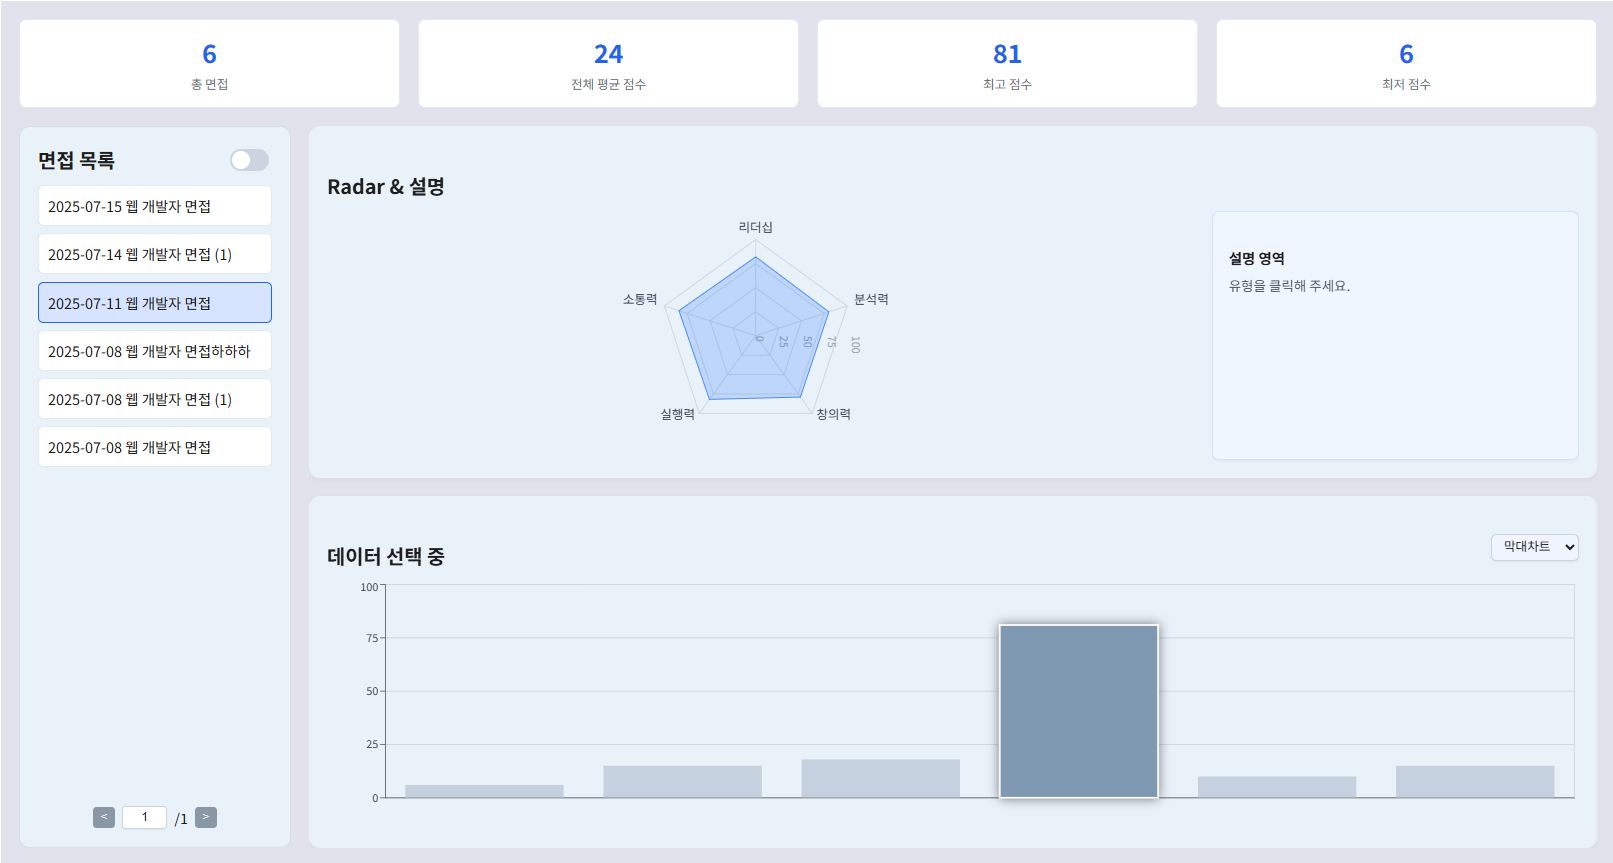
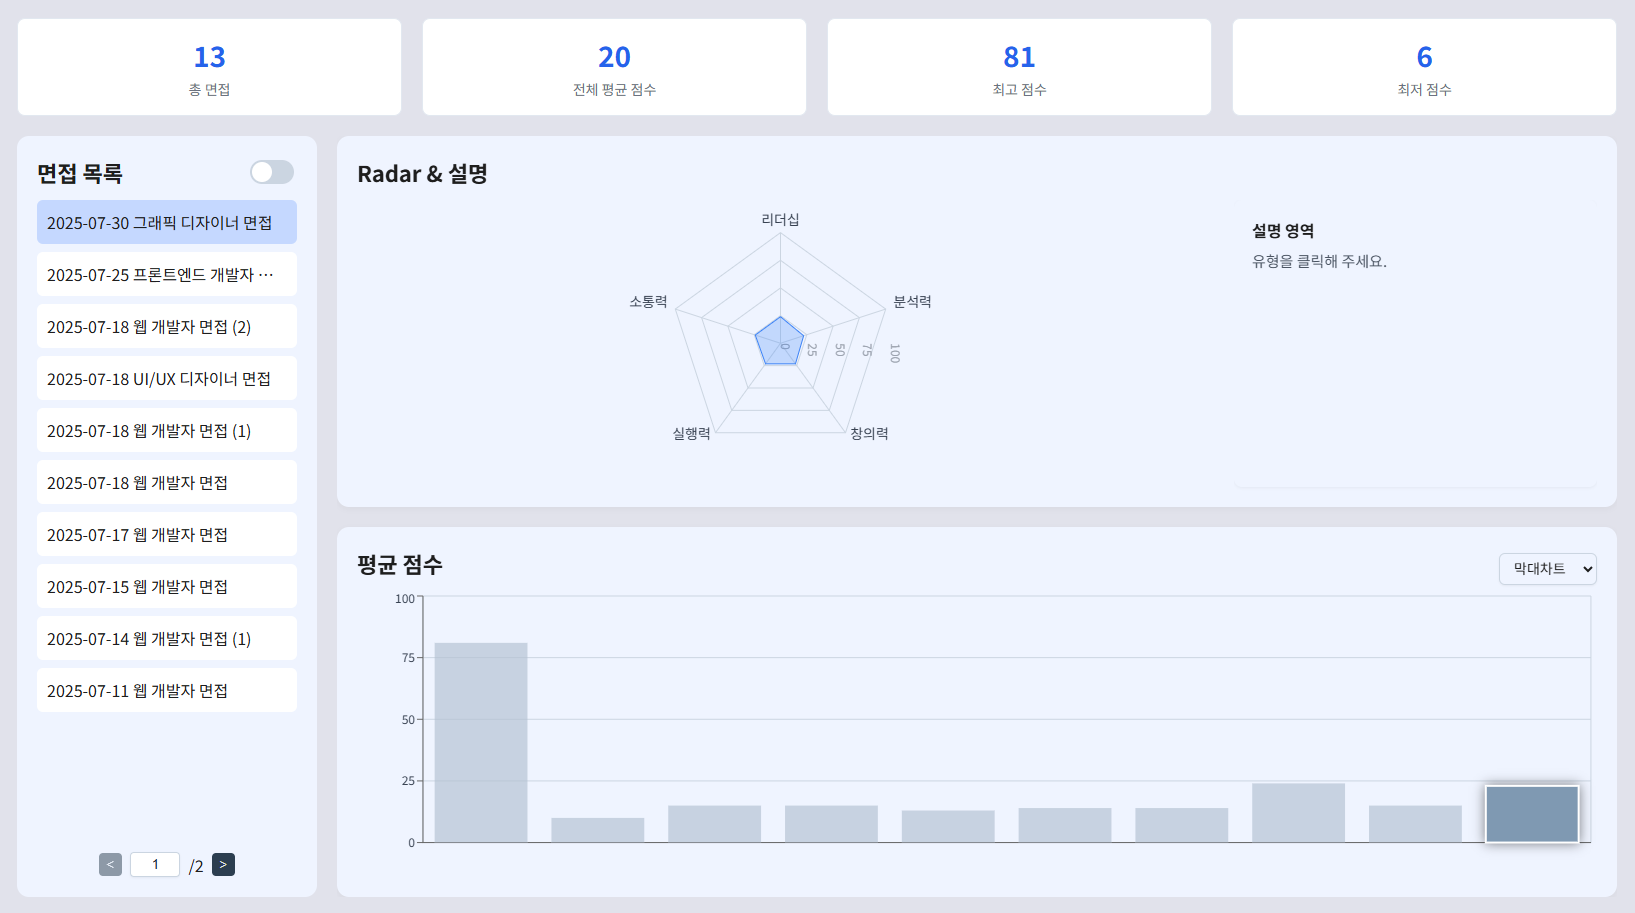
css

diff --git a/frontend/jobis/src/components/ai/GraphPage.jsx b/frontend/jobis/src/components/ai/GraphPage.jsx
@@ -20,7 +20,7 @@ const Container = styled.div`
 	height: 100%;
 	display: flex;
 	flex-direction: column;
-	background-color:#f8f9fa;  // 기존보다 진한 회색톤으로 조정
+	background-color: #f8f9fa;  // 기존보다 진한 회색톤으로 조정
 	color: #1E1E1E;
 	box-sizing: border-box;
 	overflow: hidden;

diff --git a/frontend/jobis/src/components/chat/CreateProfileForm.jsx b/frontend/jobis/src/components/chat/CreateProfileForm.jsx
@@ -5,7 +5,7 @@ import { useNavigate } from 'react-router-dom';
 
 const Container = styled.div`
   max-width: 600px;
-  margin: 60px auto;
+  margin: 150px auto;
   padding: 40px;
   background: #fff;
   border-radius: 12px;
